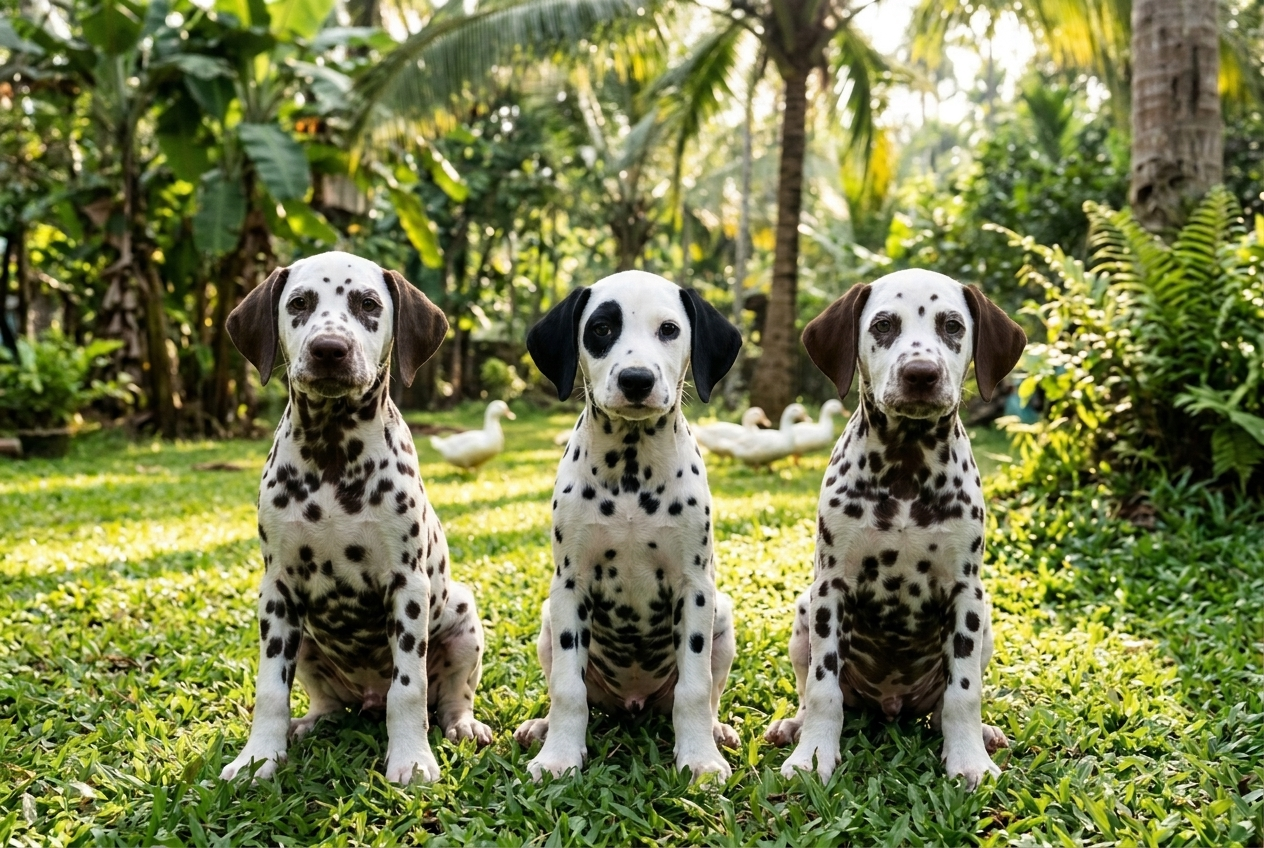
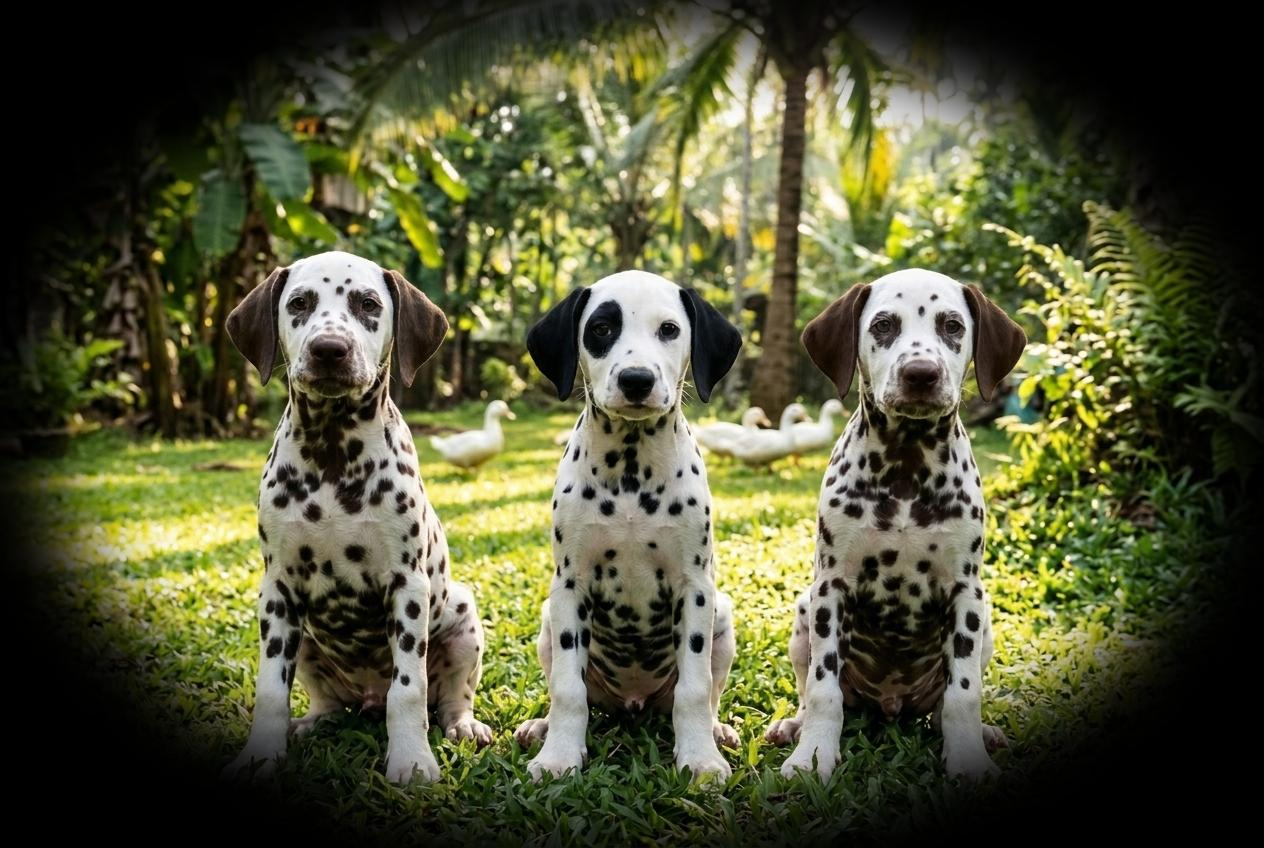
style(sanctuary): add soft vignette perimeter fade to Dalmatian trio image

diff --git a/about.html b/about.html
@@ -917,7 +917,7 @@
             <!-- Slide 3: Three Dalmatian Farm Guard Puppies (Patch, Sandy & Cocoa) -->
             <div id="sanctuary-slide-2" class="grid lg:grid-cols-12 gap-8 items-center hidden">
               <div class="lg:col-span-7 rounded-xl overflow-hidden border border-white/10 h-72 sm:h-96 bg-black">
-                <img src="assets/images/dalmatian-guard-puppies.jpg?v=20261122_dark_chocolate_trio_v6" alt="The three Dalmatian guard puppies—Cocoa with dark chocolate liver spots, Patch with black spots and right eye patch, and Sandy with matching dark chocolate liver spots—standing watch together on the lush green farm grass" class="w-full h-full object-cover">
+                <img src="assets/images/dalmatian-guard-puppies.jpg?v=20261122_faded_v7" alt="The three Dalmatian guard puppies—Cocoa with dark chocolate liver spots, Patch with black spots and right eye patch, and Sandy with matching dark chocolate liver spots—standing watch together on the lush green farm grass" class="w-full h-full object-cover">
               </div>
               <div class="lg:col-span-5 space-y-4">
                 <span class="text-xs uppercase tracking-widest text-brand-gold font-bold block">Slide 03 • Three Farmstead Protectors</span>
